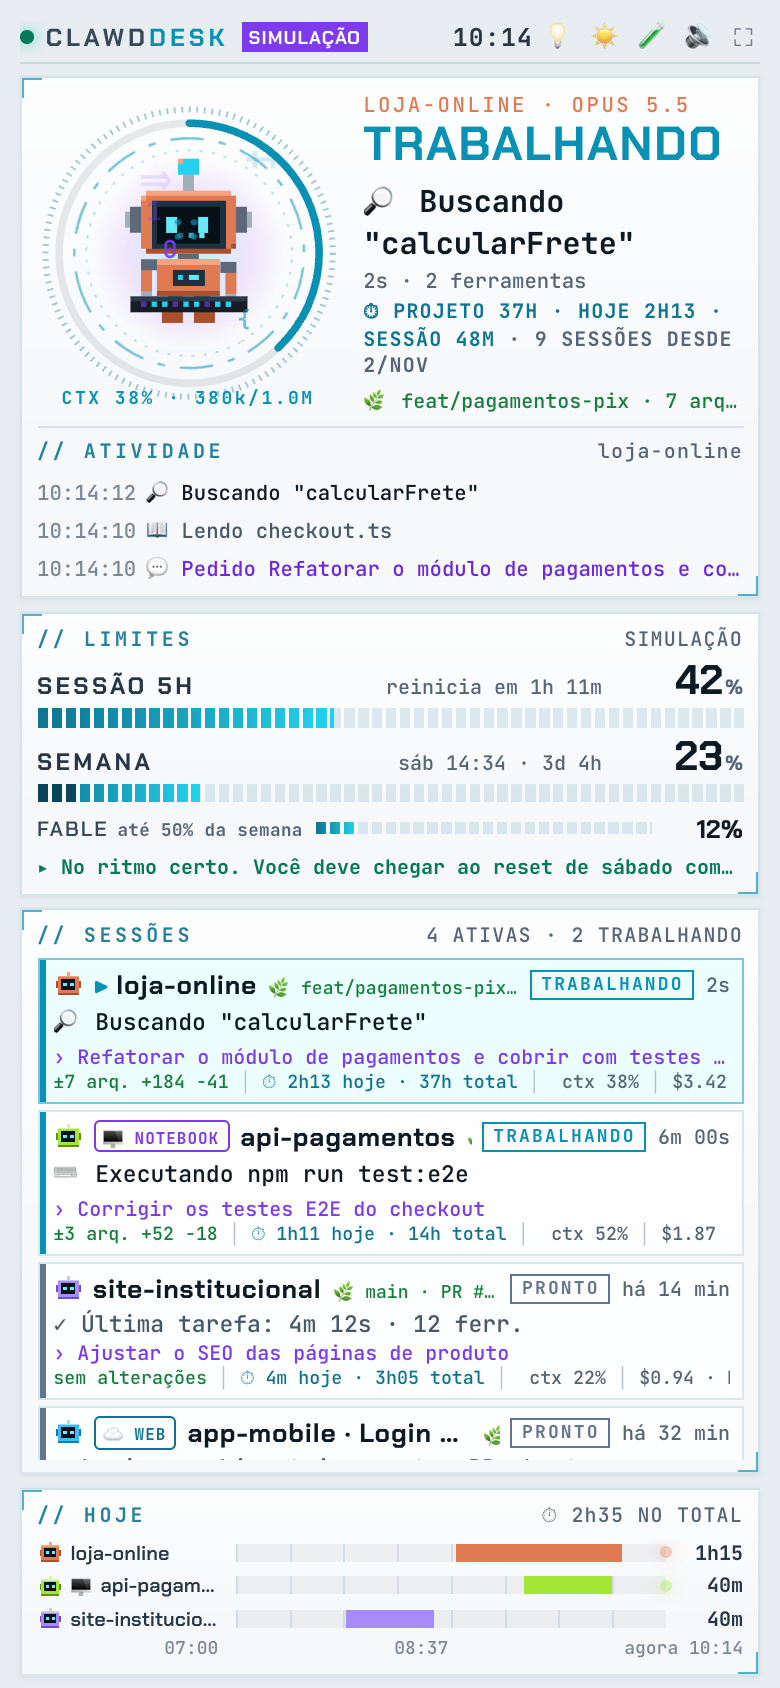
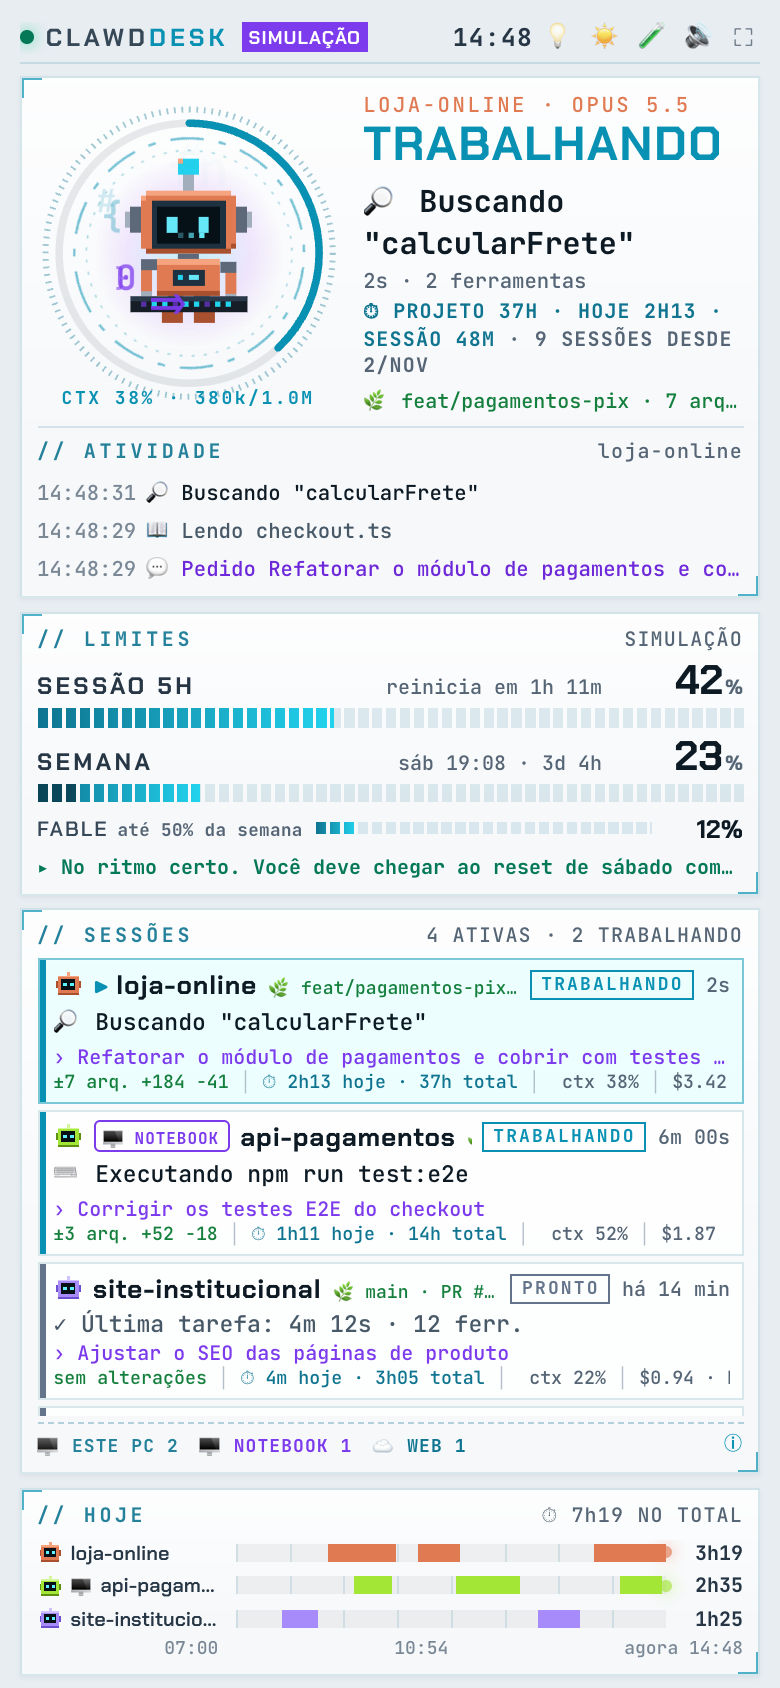
Rodapé "de onde vêm as sessões" e passo a passo para PCs em outra rede
- Painel de sessões: linha com este PC, cada outro PC ligado e a web, com a contagem de cada
  origem; tocando nela aparece como ligar outro computador e quantas sessões da web estão ocultas
- Servidor: a lista da web informa quantas sessões aparecem e quantas ficaram de fora por idade
- npm run link: quando rodado no próprio principal, explica que o comando é para o outro PC
- README: rodapé novo, PC em outra rede (Controle Remoto ou Tailscale), aviso para não expor
  o painel na internet e capturas refeitas
- package-lock.json com o nome do pacote atualizado

diff --git a/public/js/app.js b/public/js/app.js
@@ -427,6 +427,7 @@ function render() {
   renderFeed(p, t);
   renderLimits(u, t);
   renderSessions(s, p, t);
+  renderSources(s);
   renderTimeline(s);
   renderTop();
   syncNoticeActions(t);
@@ -1091,6 +1092,71 @@ function renderSessions(s, p, t) {
   });
 }
 
+// Rodapé do painel de sessões: de onde o monitor está lendo e quantas sessões vieram de cada lugar.
+// Assim fica claro quando outro PC não está ligado, ou quando as sessões da web são todas antigas.
+const WEB_STATUS = {
+  'aguardando-login': 'SEM LOGIN',
+  desativado: 'DESLIGADA',
+  'nao-autorizado': 'LOGIN RECUSADO',
+  'sem-acesso': 'SEM ACESSO',
+  limitado: 'EM PAUSA',
+  erro: 'SEM RESPOSTA',
+};
+function renderSources(s) {
+  const box = $('sources');
+  const r = s && s.remote;
+  box.hidden = !r;
+  if (!r) return;
+  const sessions = s.sessions || [];
+  const items = [{ t: `🖥 ESTE PC ${sessions.filter((x) => !x.origin).length}`, k: 'local' }];
+  if (r.link) {
+    const hub = String(r.link.hub || 'principal').toUpperCase();
+    items.push(r.link.linked ? { t: `🛰 ENVIANDO P/ ${hub}`, k: 'pc' } : { t: `🛰 ${hub}: SEM CONEXÃO`, k: 'warn' });
+  }
+  for (const sat of r.satellites || []) {
+    const host = String(sat.host || 'PC').toUpperCase();
+    items.push(sat.online ? { t: `🖥 ${host} ${sat.sessions}`, k: 'pc' } : { t: `🖥 ${host}: DESLIGADO`, k: 'off' });
+  }
+  if (!r.link && !(r.satellites || []).length) items.push({ t: '🖥 OUTROS PCS: NENHUM', k: 'off' });
+  const w = r.web || {};
+  if (w.status === 'ok') {
+    items.push({ t: `☁ WEB ${w.web || 0}`, k: w.web ? 'web' : 'off' });
+    if (w.remote) items.push({ t: `📡 CONTROLE REMOTO ${w.remote}`, k: 'remote' });
+  } else {
+    items.push({ t: `☁ WEB: ${WEB_STATUS[w.status] || 'SEM RESPOSTA'}`, k: w.status === 'desativado' ? 'off' : 'warn' });
+  }
+  items.push({ t: $('sources-hint').hidden ? 'ⓘ' : '✕', k: 'help' });
+
+  const sig = items.map((i) => i.k + i.t).join('|');
+  if (box.dataset.sig !== sig) {
+    box.dataset.sig = sig;
+    box.textContent = '';
+    for (const i of items) {
+      const el = document.createElement('span');
+      el.className = 'src';
+      el.dataset.kind = i.k;
+      el.textContent = i.t;
+      box.appendChild(el);
+    }
+  }
+  // detalhe da web na dica: quantas ficaram de fora por serem antigas
+  const webLine =
+    w.status === 'ok'
+      ? `☁ Web: aparecem as sessões ativas ou das últimas ${w.recentH || 12} h${w.old ? ` (${w.old} mais ${w.old === 1 ? 'antiga oculta' : 'antigas ocultas'})` : ''}.`
+      : w.status === 'desativado'
+        ? '☁ Web: desligada neste PC (CLAWDDESK_WEB=0).'
+        : '☁ Web: precisa do login do Claude Code no terminal deste PC (claude auth login).';
+  setText($('sh-web'), webLine);
+}
+function toggleSourcesHint() {
+  const h = $('sources-hint');
+  h.hidden = !h.hidden;
+  // endereço deste PC como o celular enxerga (no próprio PC, "localhost" não serve para o outro)
+  const host = location.hostname;
+  setText($('sh-addr'), host && !/^(localhost|127\.|\[?::1)/.test(host) ? host : 'ENDEREÇO');
+  if (snap) renderSources(snap);
+}
+
 function renderTop() {
   const st = awake.status();
   const a = $('awake');
@@ -1150,6 +1216,13 @@ vol.addEventListener('input', () => {
 });
 vol.addEventListener('change', () => sfx.play('tick'));
 $('sim-btn').addEventListener('click', () => sim.toggle());
+$('sources').addEventListener('click', toggleSourcesHint);
+$('sources').addEventListener('keydown', (e) => {
+  if (e.key === 'Enter' || e.key === ' ') {
+    e.preventDefault();
+    toggleSourcesHint();
+  }
+});
 $('full').addEventListener('click', () => {
   if (document.fullscreenElement) document.exitFullscreen().catch(() => {});
   else if (document.documentElement.requestFullscreen) document.documentElement.requestFullscreen().catch(() => {});

diff --git a/server/websessions.js b/server/websessions.js
@@ -178,18 +178,30 @@ export class WebSessions extends EventEmitter {
     for (const id of this.track.keys()) if (!seen.has(id)) this.track.delete(id);
   }
 
-  view() {
+  // Separa as sessões da conta: as que aparecem na tela (ativas ou recentes) e quantas ficaram de
+  // fora por serem antigas. As deste PC e dos satélites nem entram na conta.
+  pick() {
     const now = Date.now();
     const excluded = this.getExcluded();
-    const out = [];
+    const shown = [];
+    let old = 0;
     for (const x of this.raw) {
       if (excluded.has(bridgeKey(x.id))) continue; // é uma sessão deste PC (ou de um satélite)
       const st = stateOf(x);
-      const t = this.track.get(x.id) || { since: now, doneAt: 0 };
       const last = Date.parse(x.last_event_at || x.updated_at || x.created_at) || 0;
       const active = st.state === 'thinking' || st.state === 'permission';
-      if (!active && now - last > cfg.WEB_RECENT_MS) continue;
+      if (!active && now - last > cfg.WEB_RECENT_MS) old++;
+      else shown.push({ x, st, last });
+    }
+    shown.sort((a, b) => b.last - a.last);
+    return { shown: shown.slice(0, MAX_SHOWN), old: old + Math.max(0, shown.length - MAX_SHOWN) };
+  }
 
+  view() {
+    const now = Date.now();
+    const out = [];
+    for (const { x, st, last } of this.pick().shown) {
+      const t = this.track.get(x.id) || { since: now, doneAt: 0 };
       const em = x.external_metadata || {};
       const pts = em.post_turn_summary || {};
       const remote = x.environment_kind === 'bridge';
@@ -234,11 +246,15 @@ export class WebSessions extends EventEmitter {
         unread: !!x.unread,
       });
     }
-    out.sort((a, b) => b.lastEventAt - a.lastEventAt);
-    return out.slice(0, MAX_SHOWN);
+    return out; // pick() já ordenou e limitou
   }
 
+  // Para a linha "de onde vêm as sessões": quantas aparecem de cada tipo e quantas antigas ficaram de fora
   info() {
-    return { status: this.status, lastAt: this.lastAt };
+    const base = { status: this.status, lastAt: this.lastAt, recentH: Math.round(cfg.WEB_RECENT_MS / 3600e3) };
+    if (this.status !== 'ok') return base;
+    const { shown, old } = this.pick();
+    const remote = shown.filter((s) => s.x.environment_kind === 'bridge').length;
+    return { ...base, web: shown.length - remote, remote, old };
   }
 }

diff --git a/public/css/style.css b/public/css/style.css
@@ -569,6 +569,46 @@ body[data-state='offline'] .bigclock-box {
 .s-origin[data-kind='web'] { color: var(--cyan-soft); }
 .s-origin[data-kind='remote'] { color: var(--amber); }
 .s-origin[data-online='0'] { opacity: 0.5; }
+/* rodapé "de onde vêm as sessões" */
+.sources {
+  flex: none;
+  display: flex;
+  flex-wrap: wrap;
+  gap: 0.35em 1.1em;
+  margin-top: calc(var(--u) * 0.8);
+  padding-top: calc(var(--u) * 0.7);
+  border-top: 1px dashed var(--line);
+  font-family: var(--mono);
+  font-size: max(9px, calc(var(--u) * 2));
+  font-weight: 700;
+  letter-spacing: 0.06em;
+  color: var(--dim);
+  cursor: pointer;
+  user-select: none;
+}
+.src { white-space: nowrap; }
+.src[data-kind='local'] { color: var(--title); }
+.src[data-kind='pc'] { color: var(--purple); }
+.src[data-kind='web'] { color: var(--cyan-soft); }
+.src[data-kind='remote'] { color: var(--amber); }
+.src[data-kind='warn'] { color: var(--amber); }
+.src[data-kind='off'] { color: var(--muted); font-weight: 400; }
+.src[data-kind='help'] { margin-left: auto; color: var(--cyan); }
+.sources-hint {
+  flex: none;
+  display: flex;
+  flex-direction: column;
+  gap: 0.3em;
+  margin-top: calc(var(--u) * 0.8);
+  padding-left: 0.7em;
+  border-left: 2px solid var(--cyan);
+  font-family: var(--mono);
+  font-size: max(10px, calc(var(--u) * 2.2));
+  line-height: 1.35;
+  color: var(--dim);
+}
+.sources-hint b { color: var(--title); }
+.sources-hint code { color: var(--cyan); font-weight: 700; }
 .tl-host { font-family: var(--mono); font-size: 0.82em; font-weight: 400; color: var(--purple); }
 .s-name { font-size: max(12px, calc(var(--u) * 3.3)); font-weight: 700; letter-spacing: 0.03em; white-space: nowrap; overflow: hidden; text-overflow: ellipsis; }
 .s-card[data-primary='1'] .s-name::before { content: '▶ '; color: var(--cyan); font-size: 0.75em; }

diff --git a/public/index.html b/public/index.html
@@ -90,6 +90,13 @@
       <section class="panel sessions">
         <div class="panel-title"><span>// SESSÕES</span><span id="sessions-count" class="pt-right"></span></div>
         <div id="session-list" class="session-list"></div>
+        <!-- de onde vêm as sessões; toque para ver como ligar outro PC -->
+        <div id="sources-hint" class="sources-hint" hidden>
+          <div>🖥 <b>Outro PC na mesma rede:</b> instale o ClawdDesk nele e rode <code>npm run link -- <span id="sh-addr">ENDEREÇO</span> CÓDIGO</code>. O código aparece no terminal deste PC.</div>
+          <div>📡 <b>Outro PC fora da rede:</b> ligue o Controle Remoto no Claude Code de lá. As sessões dele chegam aqui pelo claude.ai.</div>
+          <div id="sh-web"></div>
+        </div>
+        <div id="sources" class="sources" role="button" tabindex="0" hidden></div>
       </section>
 
       <!-- linha do tempo do dia -->

diff --git a/scripts/link.js b/scripts/link.js
@@ -72,7 +72,11 @@ async function link() {
   const u = new URL(url);
   const me = new Set(['localhost', '127.0.0.1', '::1', ...lanAddresses().map((a) => a.address)]);
   if (me.has(u.hostname) && Number(u.port) === cfg.PORT) {
-    console.error(c.r('  ✖ Esse endereço é deste mesmo computador. Use o endereço do OUTRO PC (o que está com o celular).\n'));
+    console.error(c.r('  ✖ Esse endereço é deste mesmo computador, que já é o ClawdDesk principal.'));
+    console.error('    Este comando roda no OUTRO computador, aquele cujas sessões você quer ver aqui.');
+    const lan = lanAddresses()[0];
+    const addr = /^(localhost|127\.|::1)/.test(u.hostname) ? (lan ? lan.address : 'ENDEREÇO') : u.hostname;
+    console.error(`    Lá: instale o ClawdDesk e rode ${c.b(`npm run link -- ${addr} CÓDIGO`)} e depois ${c.b('npm start')}.\n`);
     process.exit(1);
   }
 

diff --git a/server/simulator.js b/server/simulator.js
@@ -367,6 +367,13 @@ export class Simulator extends EventEmitter {
       },
       sim: { active: true },
       timeline: this.fakeTimeline(now),
+      // origens de acordo com as sessões fictícias: 2 deste PC, 1 do Notebook, 1 da web
+      remote: {
+        machine: 'este PC',
+        web: { status: 'ok', lastAt: now, recentH: 12, web: 1, remote: 0, old: 3 },
+        satellites: [{ host: 'Notebook', online: true, sessions: 1, at: now }],
+        link: null,
+      },
       approvals: {
         ...(snap.approvals || { pairedDevices: 0, open: [] }),
         open: [...(this.approval ? [this.approval] : []), ...((snap.approvals && snap.approvals.open) || [])],

diff --git a/README.md b/README.md
@@ -140,7 +140,11 @@ Além das sessões deste PC, a tela mostra:
 Cada cartão mostra uma etiqueta com a origem. A mesma sessão nunca aparece duas vezes, mesmo com o
 Controle Remoto ligado.
 
-<img src="docs/screenshots/sessoes-origem.png" alt="Painel de sessões com uma sessão deste PC, uma do Notebook (modo satélite) e uma da web" width="620">
+No rodapé do painel, uma linha mostra **de onde o monitor está lendo** e quantas sessões vieram de
+cada lugar: `🖥 ESTE PC 2 · 🖥 NOTEBOOK 1 · ☁ WEB 1`. Quando não há outro PC ligado, ou quando as
+sessões da web são todas antigas, a linha diz isso. Toque nela para ver como ligar outro computador.
+
+<img src="docs/screenshots/sessoes-origem.png" alt="Painel de sessões com uma sessão deste PC, uma do Notebook (modo satélite) e uma da web, e o rodapé com a contagem de cada origem" width="620">
 
 ### Limites de uso da sua conta
 Janela de 5 horas, limite **semanal**, limites **por modelo** (ex.: Fable "até 50% da semana") e uma
@@ -350,7 +354,7 @@ Usa o Claude Code em mais de um computador? Deixe tudo na mesma tela:
 
   1. No computador **principal** (o do celular), veja no terminal o endereço ("No celular:
      `http://…`") e o **código de pareamento**.
-  2. No **outro** computador, na pasta do ClawdDesk:
+  2. No **outro** computador (não no principal), na pasta do ClawdDesk:
      ```bash
      npm run link -- 192.168.0.10 123456
      ```
@@ -363,6 +367,19 @@ Usa o Claude Code em mais de um computador? Deixe tudo na mesma tela:
   e somem em 2 minutos. Para desfazer: `npm run unlink` no outro computador.
 
   O nome mostrado é o do computador; para trocar: `CLAWDDESK_NAME="Notebook" npm start`.
+- **Outro computador em outra rede** (por exemplo, no escritório): o modo satélite precisa alcançar o
+  principal, e o endereço `192.168.…` só existe dentro da sua rede. Há dois caminhos:
+  - **Controle Remoto**, sem instalar nada: no Claude Code do outro PC, rode `/remote-control` dentro
+    da sessão (no app desktop, ligue o Controle Remoto da sessão). Ela aparece aqui como
+    📡 OUTRO PC, com estado, resumo, contexto e custo, mas sem aprovação pelo celular.
+  - **Tailscale**, com todos os detalhes: instale o [Tailscale](https://tailscale.com/download) nos
+    dois computadores, com a mesma conta. Ele cria uma rede privada só entre os seus aparelhos. No
+    `npm run link`, use o endereço do principal no Tailscale (começa com `100.`).
+
+  Não abra o ClawdDesk para a internet com ngrok, Cloudflare Tunnel ou redirecionamento de porta no
+  roteador: a tela não pede senha (veja [Segurança e privacidade](#segurança-e-privacidade)).
+
+O rodapé do painel de sessões mostra o que está ligado: este PC, cada outro PC e a web.
 
 > Conversas comuns no claude.ai ou no app (fora do Claude Code) não são sessões de código e não
 > aparecem na lista, mas contam nos limites de uso.
@@ -458,7 +475,8 @@ Variáveis de ambiente (ex.: `CLAWDDESK_PORT=3457 npm start`):
 - `POST /api/event`, `/api/statusline` e `/api/permission/request` só aceitam chamadas do próprio PC.
 - Responder pedidos de permissão exige pareamento (código de 6 dígitos, limite de tentativas).
 - O painel em `:3456` é visível para quem estiver na mesma rede e mostra nomes de projetos, pedidos e
-  arquivos. **Use em uma rede confiável.**
+  arquivos. **Use em uma rede confiável** e não o exponha na internet. Para usar de fora de casa, use
+  uma rede privada entre os seus aparelhos, como o Tailscale.
 - Os dados locais (pareamento, cores, calibração, cotação) ficam em `data/`, fora do git.
 
 ---
@@ -494,7 +512,10 @@ Depois, apague a pasta do projeto. Seu `settings.json` volta ao que era (com bac
 - **O outro computador não conecta (modo satélite):** os dois precisam estar no mesmo Wi-Fi, com o
   ClawdDesk aberto no principal. O terminal do outro PC diz se não conseguiu falar com o principal. Se
   o principal pedir para liberar o `node` no firewall, clique em **Permitir**. O código de pareamento
-  muda quando o principal reinicia, mas um PC já ligado continua funcionando.
+  muda quando o principal reinicia, mas um PC já ligado continua funcionando. Se o outro PC estiver
+  em outra rede, veja [Outros computadores](#outros-computadores).
+- **`npm run link` diz que o endereço é deste mesmo computador:** o comando foi rodado no principal.
+  Ele roda no **outro** computador, aquele cujas sessões você quer ver no principal.
 - **"A porta 3456 já está em uso":** já há um ClawdDesk rodando — use `npm run restart`.
 - **A tela apagou:** toque no 💤 da barra superior (vira 💡) e ligue "Permanecer ativo" nas opções do
   desenvolvedor.
